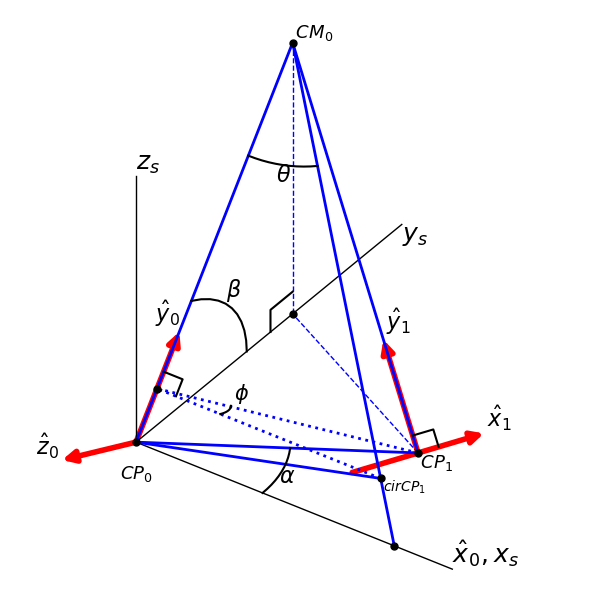
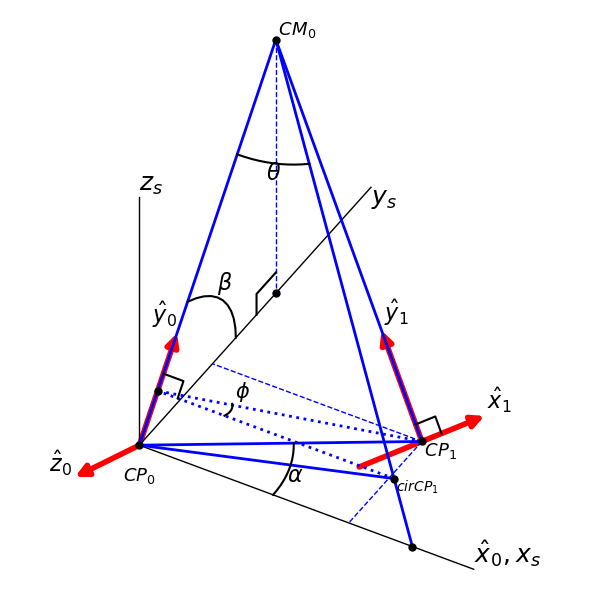
(fixed)aphaphi remove one dash line. Viewing angle changed slightly.

Changed region(s): [[0.06, 0.03, 0.87, 0.93], [0.72, 0.9, 0.9, 0.96], [0.63, 0.36, 0.72, 0.42]]

diff --git a/drawing_code/python/coin_dynamics/coin_alpha_phi_plotting.py b/drawing_code/python/coin_dynamics/coin_alpha_phi_plotting.py
@@ -16,6 +16,7 @@ from tempfile import TemporaryFile
 import sys
 sys.path.append('../3D_geometry_annotate_program')
 from annotate_program import rotation_matrix
+from annotate_program import Arrow3D
 
 #2down
 ### Turn off the perspective/orthogonal viewing effect (it works but has some side problems)
@@ -35,7 +36,7 @@ proj3d.persp_transformation = orthogonal_proj
 #### The plotting of a vector-based graphics using the above points location information.
 fig2 = pyplot.figure(2,figsize=(4*1.5, 4*1.5),dpi=100)
 ax2 = p3.Axes3D(fig2)
-ax2.view_init(elev=35, azim=305)
+ax2.view_init(elev=40, azim=300)
 ax2.set_color_cycle('b')
 
 linex, = ax2.plot([0,5],[0,0],[0,0])
@@ -64,7 +65,7 @@ Cprime = npzfile['Cprime']
 
 # [line_end_vec1,line_end_vec2],[same]
 lineswidth2 = np.array([[CP[0,:]        ,CM[0,:]            ],
-                        [CPprime[0,:]        ,CM[0,:]            ],
+                        [CPprime[0,:]   ,CM[0,:]            ],
                         [CM[0,:]        ,[R*np.tan(np.radians(onetheta)),0,0]],
                         [cirCP[1,:,0]   ,[0,0,0]            ],
                         [CPprime[0,:]        ,[0,0,0]            ],
@@ -77,7 +78,9 @@ for k in range(mm):
 
 # plot dash lines
 dashlines = np.array([[CM[0,:],[CM[0,0],CM[0,1],0]],
-                      [CPprime[0,:],[CM[0,0],CM[0,1],0]]])
+                      [CPprime[0,:],[0,CPprime[0,1],0]],
+                      [CPprime[0,:],[CPprime[0,0],0,0]]]
+                      )
 (mmd,nnd,ppd)=np.shape(dashlines)
 for kd in range(mmd):
     tempkd,=ax2.plot(*np.transpose(dashlines[kd,:,:]),linestyle='--')
